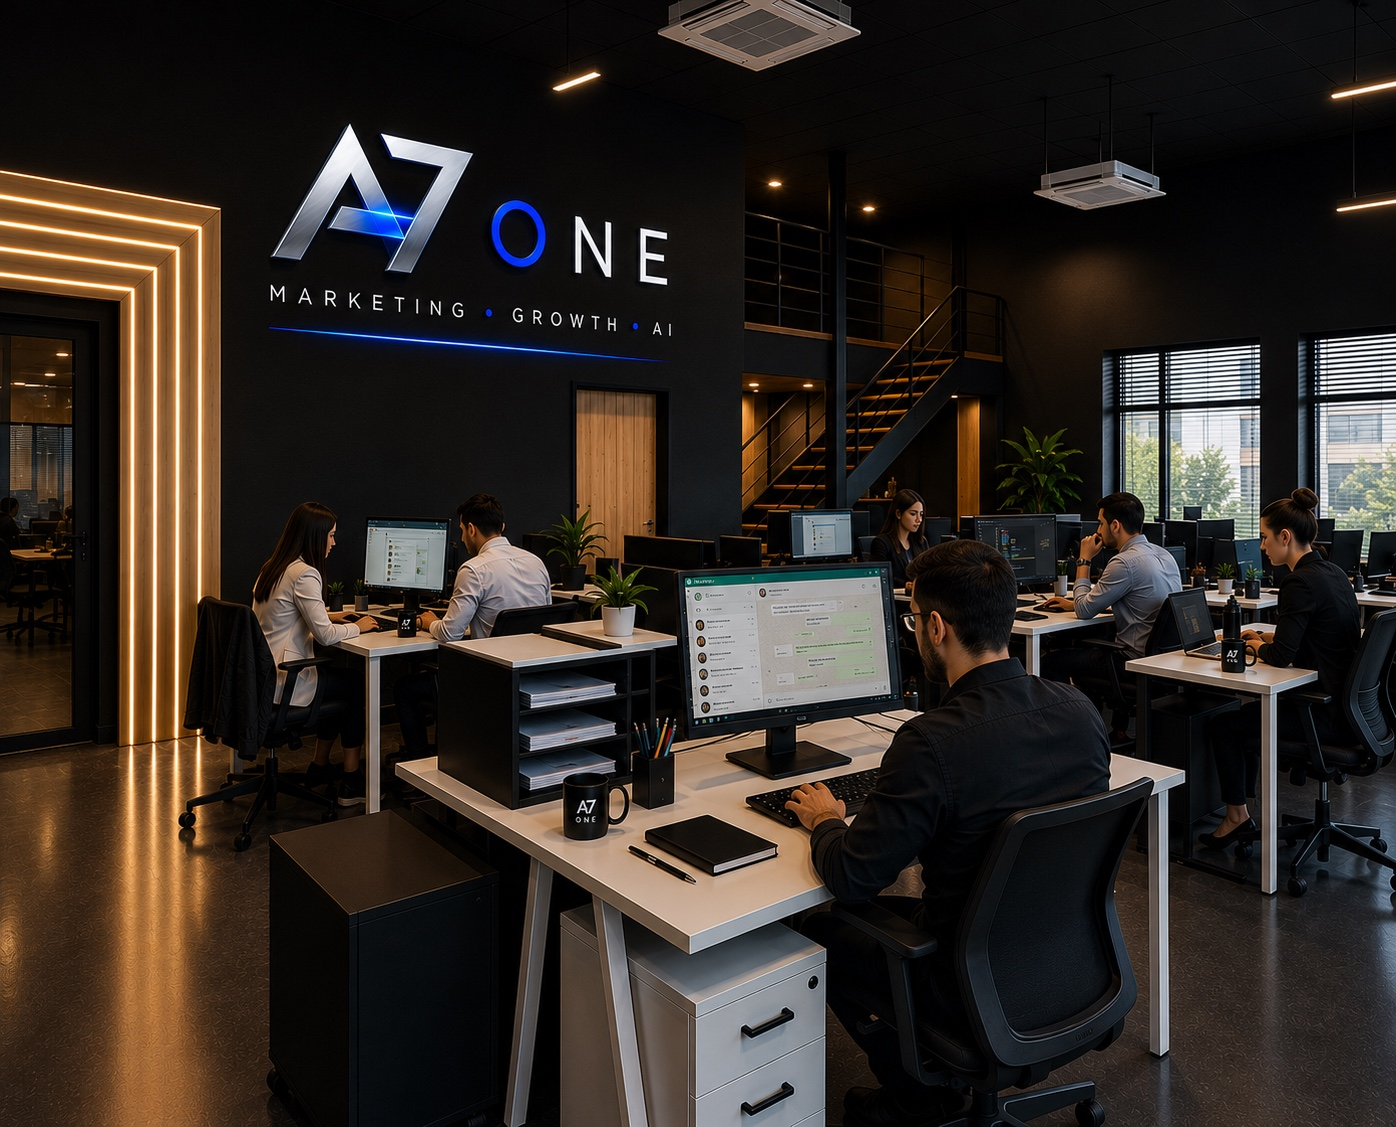
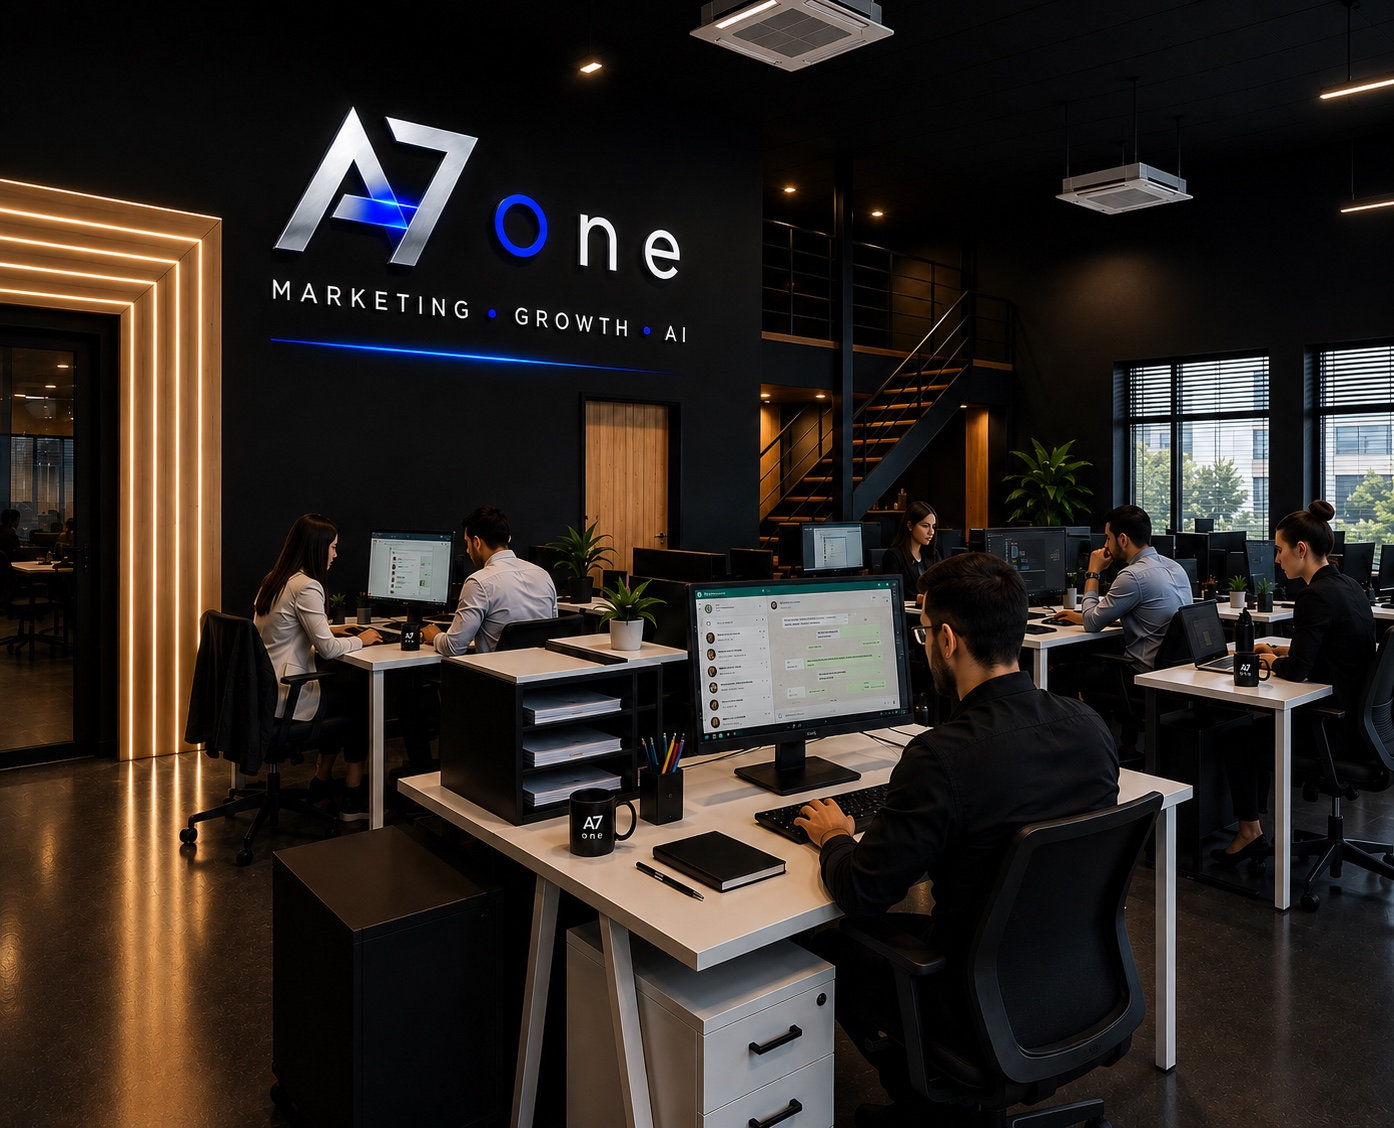
Add files via upload

diff --git a/styles.css b/styles.css
@@ -128,3 +128,43 @@ footer small{grid-column:1/-1;text-align:center;font-size:9px;color:#4E5864}
 .reveal{opacity:0;transform:translateY(28px);transition:opacity .85s ease,transform .85s cubic-bezier(.2,.8,.2,1)}.reveal.visible{opacity:1;transform:none}
 @media(max-width:1080px){.topbar nav{display:none}.hero{grid-template-columns:1fr}.hero-copy{text-align:center}.hero-lead{margin:auto}.hero-actions,.rotating-proof{justify-content:center}.a7-system{height:570px}.path-grid{grid-template-columns:1fr}.room-story{grid-template-columns:1fr}.room-image{min-height:600px}.room-copy{padding:85px 30px}.service-grid{grid-template-columns:repeat(2,1fr)}.method{grid-template-columns:1fr}.method-copy{text-align:center}.method-copy p:last-child{margin:auto}.dani{grid-template-columns:1fr}.dani-copy{text-align:center}.dani-copy p{margin-left:auto;margin-right:auto}}
 @media(max-width:720px){.topbar{width:calc(100% - 24px);height:76px;grid-template-columns:1fr auto}.brand img{width:145px}.nav-cta{font-size:9px;padding:11px 14px}.hero,.paths,.services,.dani,.final-cta{width:calc(100% - 24px)}.hero{padding-top:120px}.hero h1{font-size:49px;letter-spacing:-3px}.hero h1 span{font-size:41px}.hero-lead{font-size:14px}.hero-actions{flex-direction:column}.hero-actions a{width:100%}.a7-system{height:430px}.halo-a{width:390px;height:390px}.halo-b{width:300px;height:300px}.halo-c{width:215px;height:215px}.system-lines{width:370px;height:370px}.system-core{width:250px}.orbit-node{font-size:7px;padding:8px 10px}.node-1{top:3%;left:33%}.node-2{top:27%;right:-4%}.node-3{bottom:20%;right:-3%}.node-4{bottom:3%;left:31%}.node-5{bottom:22%;left:-4%}.node-6{top:25%;left:-5%}.scroll-cue{display:none}.paths,.services,.dani{padding:100px 0}.section-heading h2,.room-copy h2,.services-heading h2,.method-copy h2,.dani-copy h2,.final-copy h2{font-size:42px;letter-spacing:-2px}.path-card{min-height:360px;padding:28px}.path-card h3{font-size:32px}.room-image{min-height:480px}.service-grid{grid-template-columns:1fr}.service-card{min-height:320px}.method{padding:100px 24px;gap:40px}.method-system{height:530px}.ring-a{width:380px;height:380px}.ring-b{width:270px;height:270px}.method-core{width:130px;height:130px}.method-core strong{font-size:42px}.method-step{width:130px;padding:12px}.method-step b{font-size:11px}.step-1{left:34%}.step-2{right:-3%}.step-3{right:4%}.step-4{left:4%}.step-5{left:-4%}.principle{grid-template-columns:1fr;gap:8px}.principle p{font-size:36px;letter-spacing:-2px}.dani-visual{height:430px}.ring-one{width:300px;height:300px}.ring-two{width:210px;height:210px}.final-cta{grid-template-columns:1fr;min-height:560px}.final-kicker{display:none}footer{grid-template-columns:1fr;text-align:center}footer>img{margin:auto}.socials{justify-content:center}}
+
+
+/* V3.1 refinements */
+.desktop-break{display:block}
+.hero h1{font-size:clamp(55px,5.65vw,90px);line-height:.98}
+.hero h1 span{font-size:.86em}
+.brand img,.system-core img,footer>img{mix-blend-mode:screen}
+.brand img{background:transparent}
+.section-heading h2{max-width:840px}
+.room-copy strong{color:#fff;font-weight:600}
+.service-card{background:linear-gradient(145deg,#111720,#0B0F15)}
+.service-card:nth-child(1)::after,
+.service-card:nth-child(2)::after,
+.service-card:nth-child(3)::after,
+.service-card:nth-child(4)::after,
+.service-card:nth-child(5)::after,
+.service-card:nth-child(6)::after{
+  content:"";position:absolute;right:-80px;top:-90px;width:210px;height:210px;border-radius:50%;
+  border:1px solid rgba(10,102,255,.12);transition:.35s;
+}
+.service-card:hover::after{transform:scale(1.22);border-color:rgba(10,102,255,.3)}
+.service-image,.service-bg{display:none!important}
+.final-cta{grid-template-columns:1.1fr .9fr}
+.final-copy{max-width:820px}
+.final-mark{min-height:360px;border:1px solid rgba(255,255,255,.11);border-radius:34px;display:flex;flex-direction:column;align-items:center;justify-content:center;background:radial-gradient(circle at 50% 35%,rgba(10,102,255,.14),transparent 34%),#0D1117;position:relative;overflow:hidden}
+.final-mark::before{content:"";position:absolute;inset:0;background-image:linear-gradient(rgba(255,255,255,.03) 1px,transparent 1px),linear-gradient(90deg,rgba(255,255,255,.03) 1px,transparent 1px);background-size:42px 42px;mask-image:radial-gradient(circle,black,transparent 72%)}
+.final-mark img{width:62%;position:relative;filter:drop-shadow(0 18px 34px rgba(0,0,0,.45));mix-blend-mode:screen}
+.final-mark span{margin-top:22px;font-size:8px;letter-spacing:3px;color:#7F8A98;position:relative}
+.room-image img{object-position:center center}
+@media(max-width:1080px){
+  .final-cta{grid-template-columns:1fr}
+  .final-mark{min-height:300px}
+}
+@media(max-width:720px){
+  .desktop-break{display:none}
+  .hero h1{font-size:47px}
+  .hero h1 span{font-size:.92em}
+  .section-heading h2{max-width:none}
+  .final-mark{min-height:260px}
+}

diff --git a/index.html b/index.html
@@ -43,7 +43,7 @@
 
         <h1>
           Toda empresa chega a um ponto.
-          <span>Poucas descobrem como atravessá-lo.</span>
+          <span>Poucas descobrem<br class="desktop-break"> como atravessá-lo.</span>
         </h1>
 
         <p class="hero-lead">
@@ -90,7 +90,7 @@
     <section id="caminhos" class="paths">
       <div class="section-heading reveal">
         <p class="eyebrow">DOIS CAMINHOS. UMA DIREÇÃO.</p>
-        <h2>Como podemos ajudar hoje?</h2>
+        <h2>Como podemos ajudar<br class="desktop-break"> hoje?</h2>
         <p>
           Algumas pessoas já chegam sabendo o que procuram.
           Outras precisam primeiro entender qual decisão faz mais sentido.
@@ -131,10 +131,12 @@
       </div>
 
       <div class="room-copy reveal">
-        <p class="eyebrow">CRESCER É UMA COISA. CONSTRUIR CRESCIMENTO É OUTRA.</p>
+        <p class="eyebrow">A PRÓXIMA FASE EXIGE OUTRA CONSTRUÇÃO</p>
         <h2>O jeito que trouxe sua empresa até aqui pode não ser o mesmo que levará ao próximo nível.</h2>
         <p>
-          É nesse ponto que estratégia, tecnologia e execução precisam parar de trabalhar separadas.
+          Quando o negócio muda de fase, a direção também precisa mudar. Estratégia, tecnologia
+          e execução passam a trabalhar juntas para transformar crescimento em
+          <strong id="room-word">estrutura.</strong>
         </p>
       </div>
     </section>
@@ -146,8 +148,7 @@
       </div>
 
       <div class="service-grid">
-        <a class="service-card service-image reveal" data-topic="clientes" href="#">
-          <div class="service-bg"></div>
+        <a class="service-card reveal" data-topic="clientes" href="#">
           <span>01</span>
           <h3>Marketing & Growth</h3>
           <p>Atrair, posicionar e converter com estratégia.</p>
@@ -262,11 +263,15 @@
     </section>
 
     <section class="final-cta">
-      <div class="final-kicker reveal">PRÓXIMO NÍVEL</div>
       <div class="final-copy reveal">
+        <p class="eyebrow">A PRÓXIMA DECISÃO</p>
         <h2>Toda empresa chega a um próximo nível.</h2>
         <p>Algumas descobrem antes como chegar até ele.</p>
         <a class="button primary" data-topic="geral" href="#">Vamos conversar</a>
+      </div>
+      <div class="final-mark reveal" aria-hidden="true">
+        <img src="./assets/a7one-logo.png" alt="">
+        <span>NEGÓCIOS EM MOVIMENTO</span>
       </div>
     </section>
   </main>

diff --git a/script.js b/script.js
@@ -71,3 +71,21 @@ if (system) {
     system.querySelector(".system-core").style.transform = "";
   });
 }
+
+
+const roomWords = ["estrutura.", "direção.", "ritmo.", "escala."];
+const roomWord = document.getElementById("room-word");
+let roomWordIndex = 0;
+if (roomWord) {
+  setInterval(() => {
+    roomWordIndex = (roomWordIndex + 1) % roomWords.length;
+    roomWord.animate(
+      [
+        { opacity: 0, transform: "translateY(7px)", filter: "blur(5px)" },
+        { opacity: 1, transform: "translateY(0)", filter: "blur(0)" }
+      ],
+      { duration: 520, easing: "cubic-bezier(.2,.8,.2,1)" }
+    );
+    roomWord.textContent = roomWords[roomWordIndex];
+  }, 2500);
+}

diff --git a/README.md b/README.md
@@ -1,18 +1,17 @@
-# A7 One Signature V3
+# A7 One Signature V3.1
 
-Nova versão estática pronta para Vercel.
+Correções e refinamentos sobre a V3.
 
-## Principais mudanças
-- Hero escuro com a nova headline.
-- Núcleo vivo A7 One com Estratégia, Dados, Tecnologia, Execução, IA e Escala.
-- Dois caminhos: “Já sei o que preciso” e “Ainda não sei por onde começar”.
-- Sala A7 One integrada à narrativa.
-- Serviços diretos para quem já chega decidido.
-- Método A7 em sistema circular.
-- Dani como atendimento e encaminhamento.
-- Rodapé com Instagram, LinkedIn, WhatsApp e e-mail.
-- WhatsApp configurado para +55 11 98824-4380.
+## Ajustes desta versão
+- Headline do hero reduzida e com melhor quebra de linha.
+- “Como podemos ajudar hoje?” com quebra controlada.
+- Foto da agência enviada pelo usuário integrada à segunda dobra.
+- Texto aprovado: “O jeito que trouxe sua empresa até aqui pode não ser o mesmo que levará ao próximo nível.”
+- Palavra dinâmica na segunda dobra: estrutura, direção, ritmo e escala.
+- Cards de soluções padronizados, sem apenas um card com fotografia.
+- Rodapé e marca final sem caixa branca.
+- CTA final reformulado e mais claro.
+- Logo mantido sobre fundo escuro para preservar a identidade visual.
 
 ## Publicação
-Descompacte o ZIP e envie o conteúdo para a raiz do repositório `a7one-assinatura`.
-Os arquivos existentes com os mesmos nomes serão substituídos.
+Descompacte e envie o conteúdo para a raiz do mesmo repositório `a7one-assinatura`.